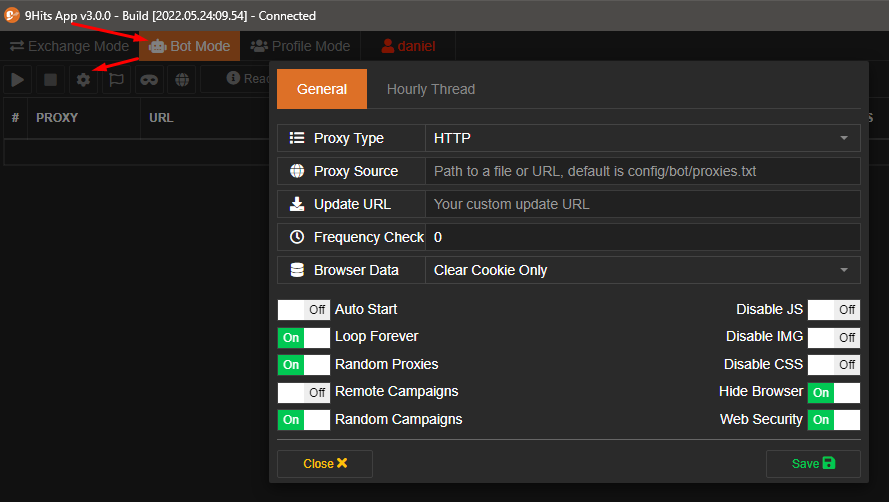
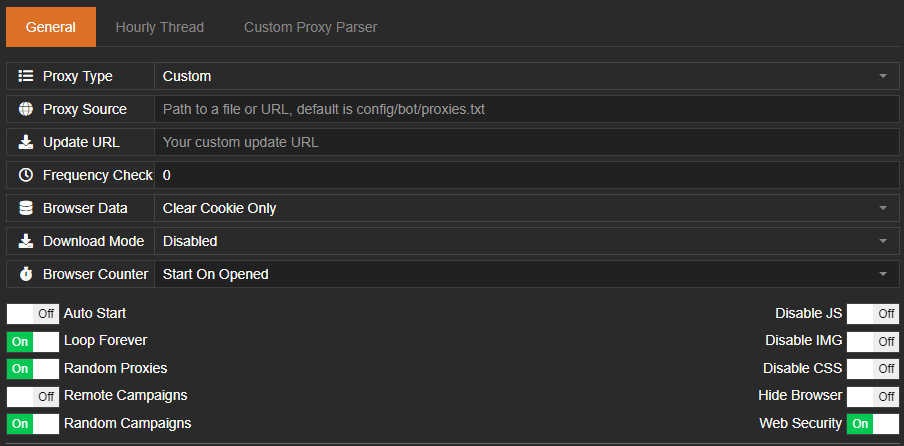
update

diff --git a/docs/9hits-app/proxy-pool.md b/docs/9hits-app/proxy-pool.md
@@ -1,0 +1,13 @@
+# Manage your proxy pools
+
+---------
+
+## What is a proxy pool?
+In the `bot` or `exchange` mode, the app can use proxies from an external source (by passing a source URL), you can [build a proxy server](https://github.com/9hitste/ExProxy-9Hits-Viewer) yourself for the `exchange` mode, or use the [built-in proxy server](https://panel.9hits.com/pool/index) hosted at 9Hits, managing the pools is quite simple, just follow the instructions in [the manage page](https://panel.9hits.com/pool/index).
+
+## How to use?
+Once you have created the pool and imported your proxies, you can either get the URL or just the pool key and set it to a session or the `Proxy Source` option in the `bot` mode settings. You can use your pools privately or share it with any other member.
+![pool with sessions](../imgs/proxy-pool-session.png)
+
+![pool with sessions](../imgs/proxy-pool-bot.png)
+

diff --git a/docs/9hits-app/exchange/app-config.md b/docs/9hits-app/exchange/app-config.md
@@ -28,7 +28,7 @@ A session is like a browser profile in which web pages are viewed by the browser
     * Socks4: Socks4 proxy
     * Socks5: Socks5 proxy
     * SSH: SSH proxy
-    * ExProxy: External proxy pool, you can just import proxy to [your pool](https://panel.9hits.com/viewer/proxy) on the panel or [create your own proxy pool](https://github.com/9hitste/ExProxy-9Hits-Viewer)
+    * ExProxy: External proxy pool, you can just import proxy to [your pool](../proxy-pool.md) on the panel or [create your own proxy pool](https://github.com/9hitste/ExProxy-9Hits-Viewer)
 * Client: The client information when the session is running
 * Points: Earned points from the session
 * Hits: Sent hits from the session

diff --git a/docs/9hits-app/bot/configuration.md b/docs/9hits-app/bot/configuration.md
@@ -33,6 +33,8 @@
 ```
 * Update URL / Frequency Check: Please read the [cusom update document](custom-update.md).
 * Browser Data: Tell the bot how to handle website data, the options are: `Clear All`, `Clear Cache Only`, `Clear Cookie Only`, `Keep All`
+* Download Mode: Options for downloading files
+* Browser Counter: When should the countdown start (browser close when the countdown ends).
 
 * Auto Start: Auto start the bot once the app is open.
 * Loop Forever: Loop your proxy list forever. If you disable this option, the bot will stop when all your proxies has been used
